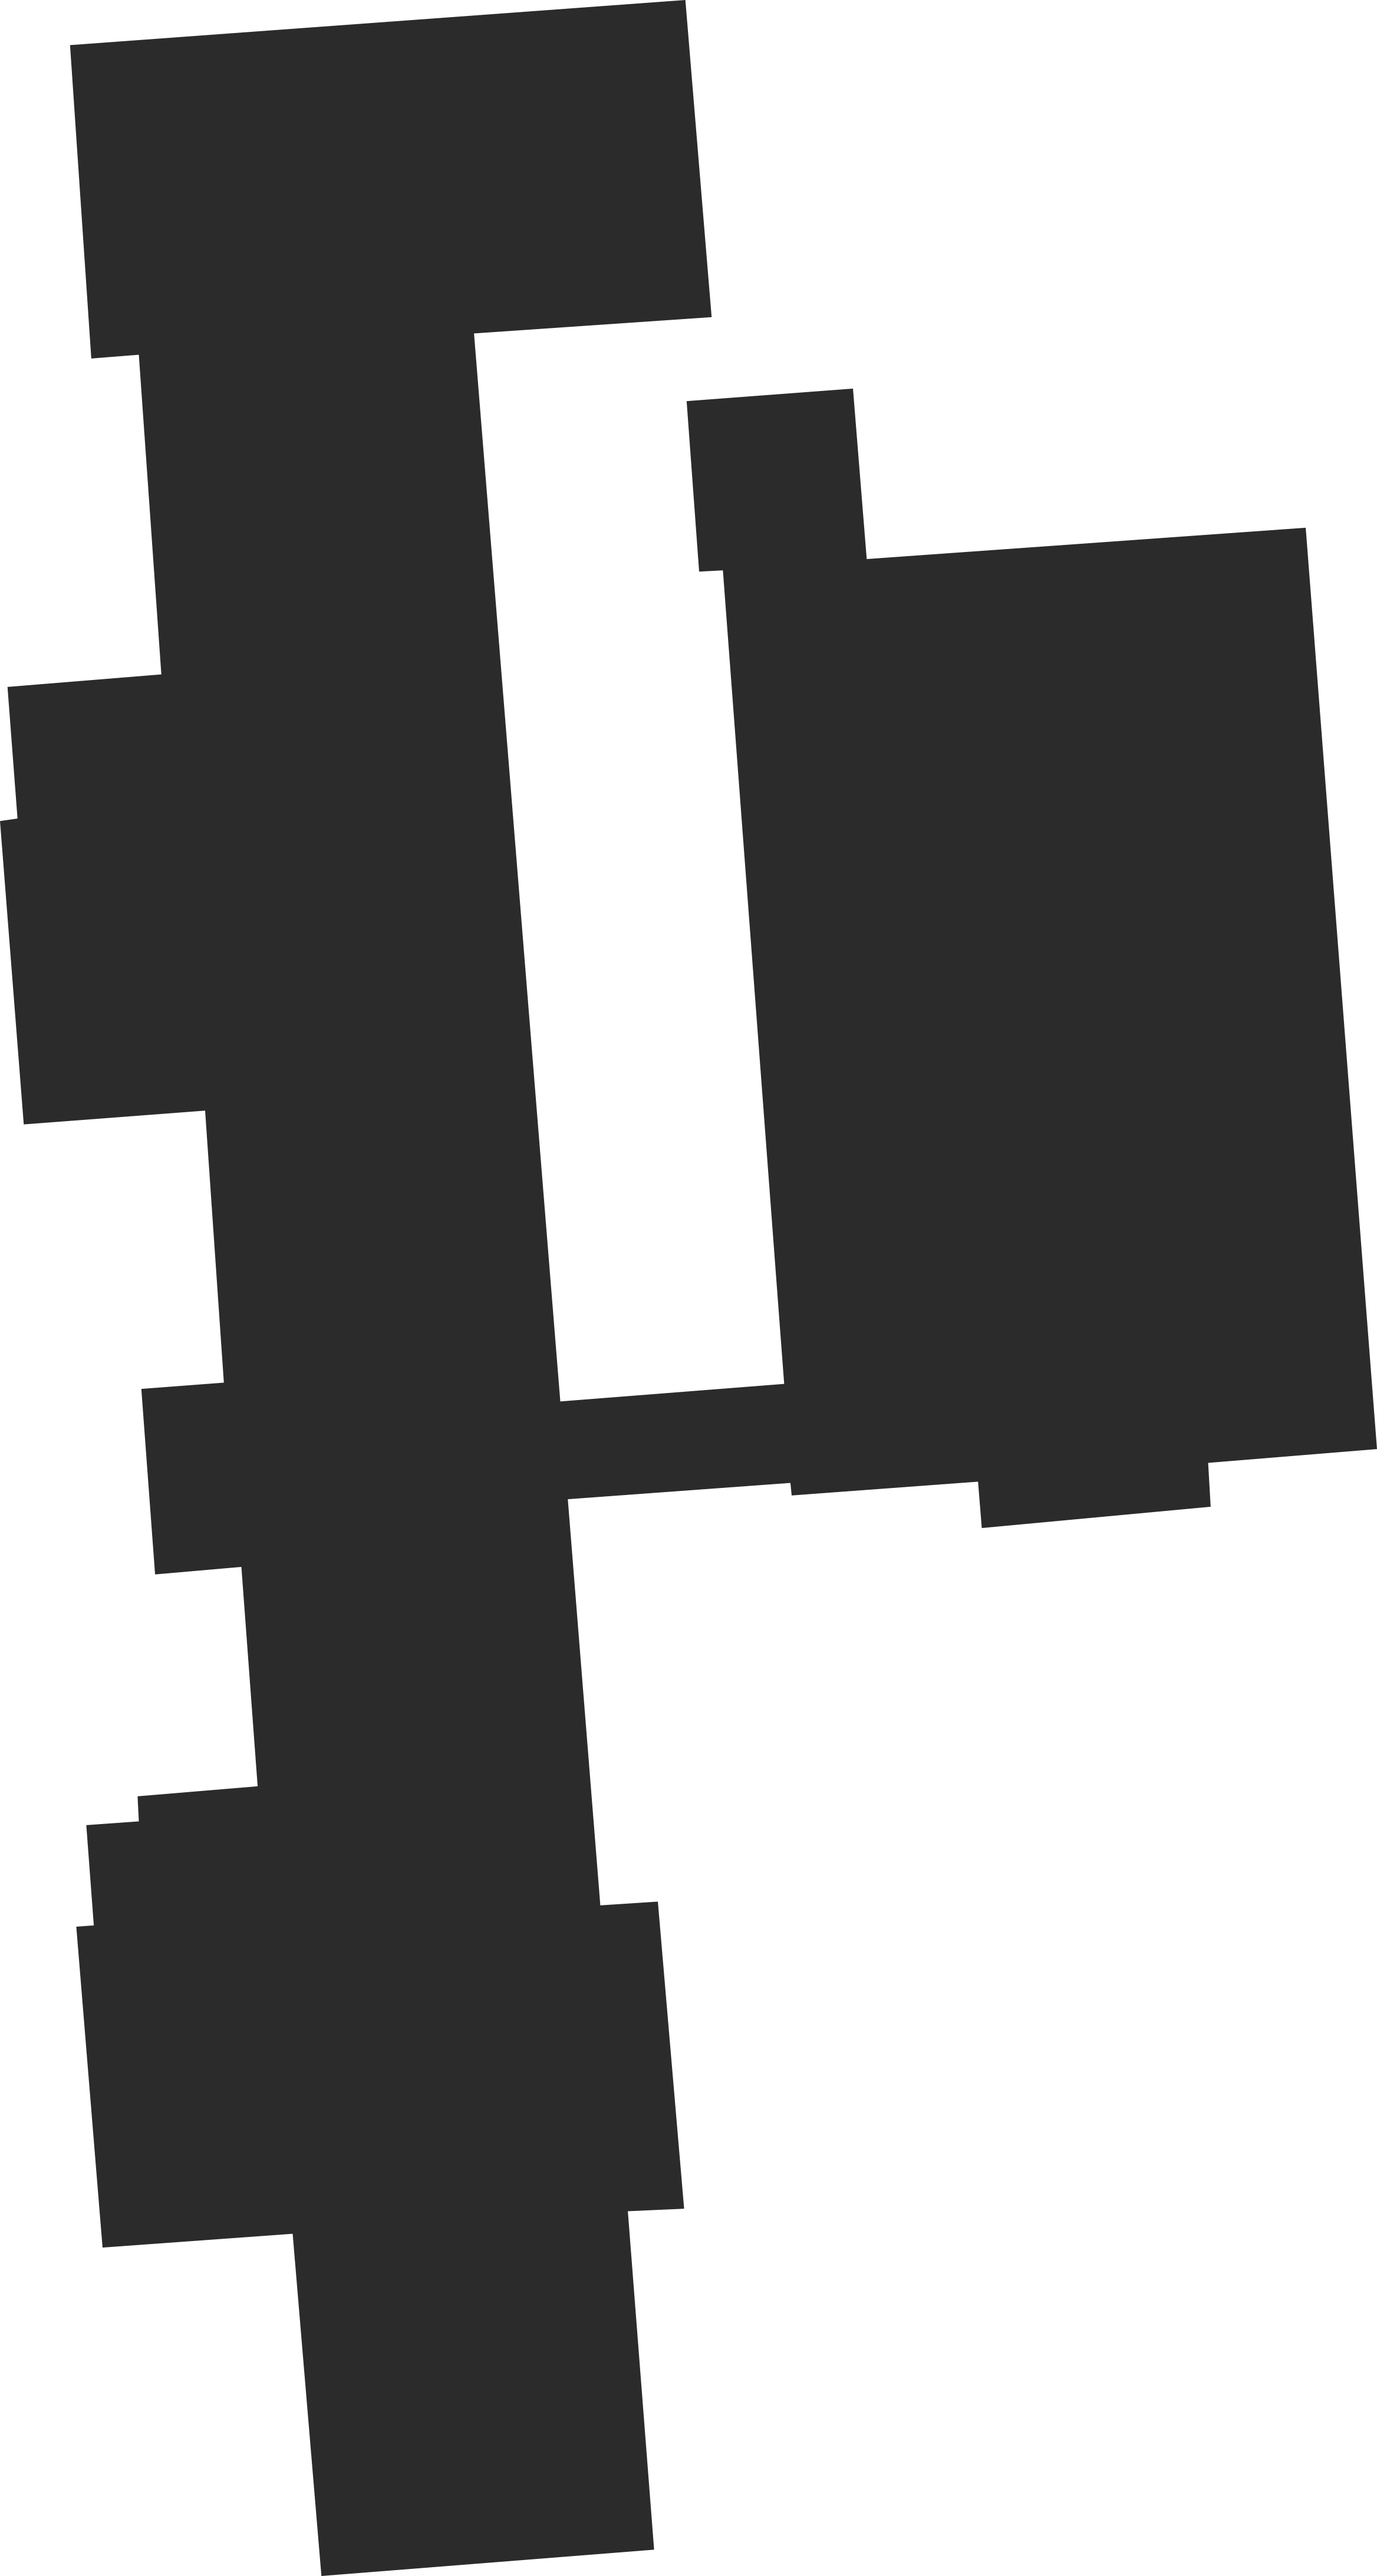
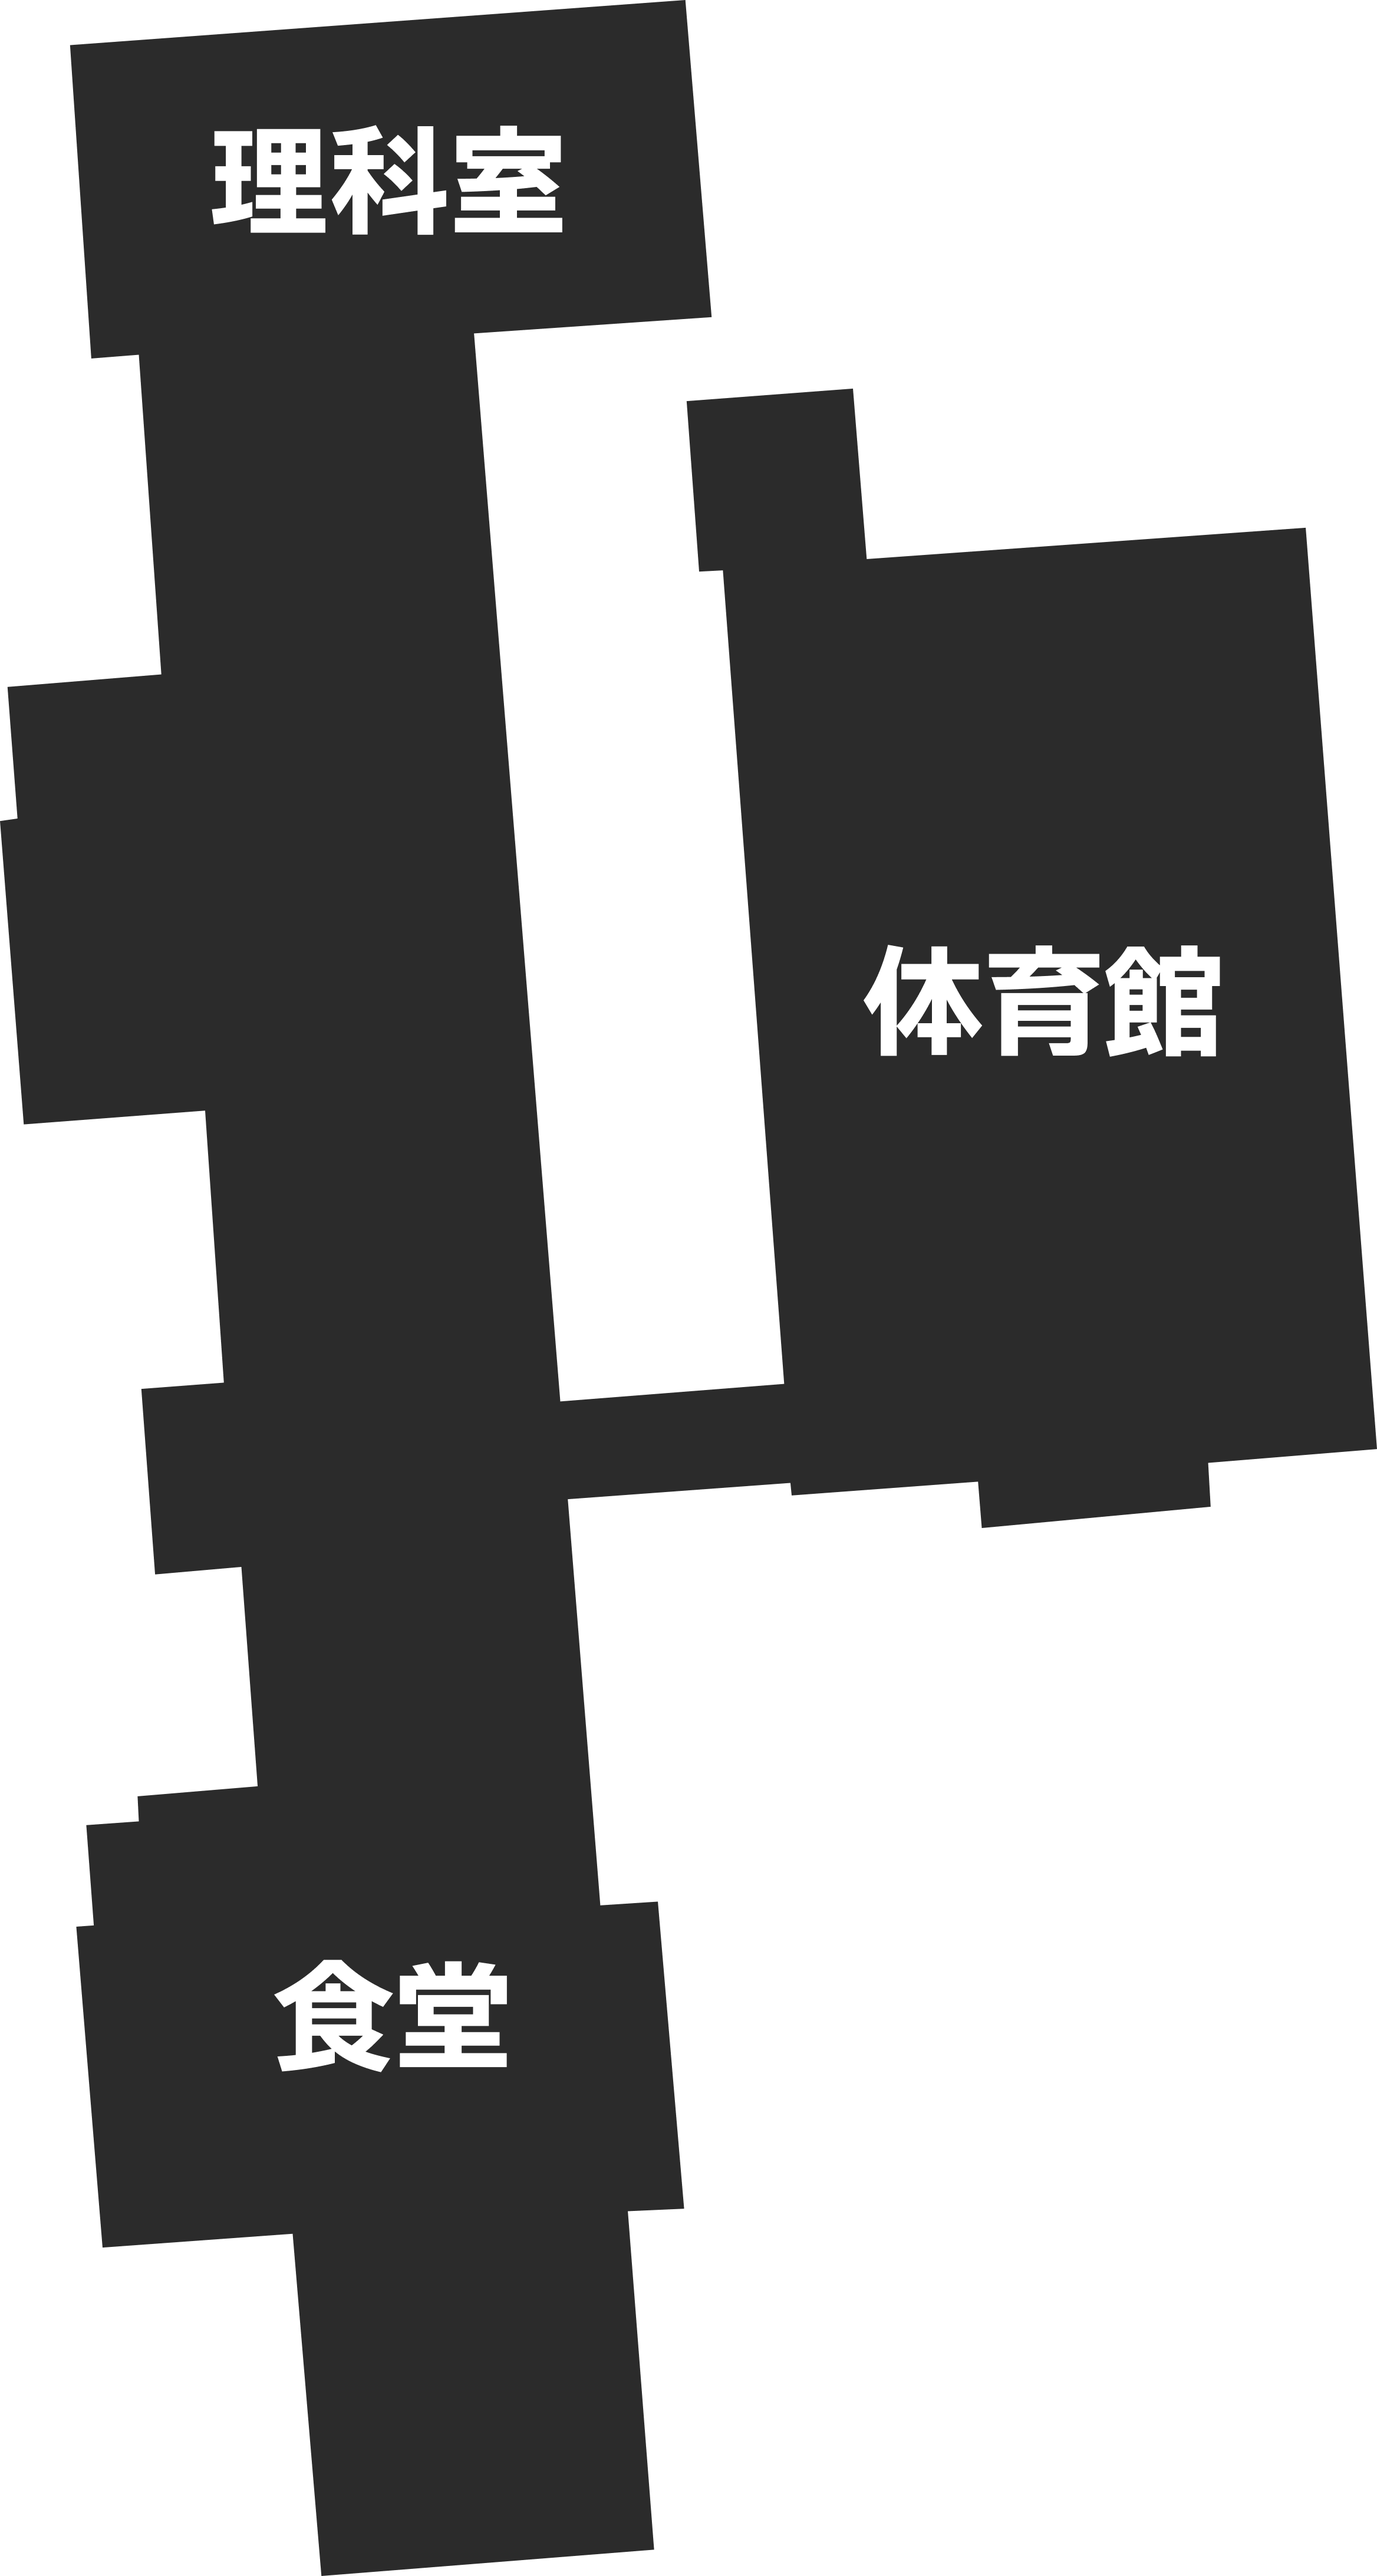
add location name

Changed region(s): [[0.1562, 0.0311, 0.4062, 0.0934], [0.625, 0.3425, 0.9062, 0.4359], [0.1875, 0.7473, 0.375, 0.8095]]

diff --git a/app/Tousousya/page.tsx b/app/Tousousya/page.tsx
@@ -3,14 +3,9 @@ import { useState } from "react";
 import "../globals.css";
 import Image from "next/image";
 
-const coordinates = [
-  { id: 1, x: 100, y: 150 },
-  { id: 2, x: 200, y: 250 },
-  { id: 3, x: 300, y: 350 },
-];
-
 export default function Tousousya() {
   const [isMailboxOpen, setIsMailboxOpen] = useState(false);
+  const [selectedLocation, setSelectedLocation] = useState<number | null>(null);
 
   return (
     <div className="min-h-screen flex flex-col" style={{ backgroundColor: 'var(--foreground)' }}>
@@ -84,23 +79,88 @@ export default function Tousousya() {
           </button>
         </div>
       </header>
-      <main className="flex-grow relative flex justify-center items-start pt-4">
-        <Image src="/img/map_black.png" alt="Map" width={360} height={360} />
-        {coordinates.map((coord) => (
+      <main 
+        className="flex-grow relative flex justify-center items-start pt-4"
+        onClick={(e) => {
+          if (e.target === e.currentTarget) {
+            setSelectedLocation(null);
+          }
+        }}
+      >
+        <Image 
+          src="/img/map_black.png" 
+          alt="Map" 
+          width={360} 
+          height={360} 
+          onClick={(e) => {
+            e.stopPropagation();
+            setSelectedLocation(null);
+          }}
+        />
+        
+        {/* Location 1 */}
+        <div 
+          onClick={(e) => {
+            e.stopPropagation();
+            setSelectedLocation(1);
+          }}
+          className="absolute cursor-pointer"
+          style={{ left: 80, top: 510 }}
+        >
           <Image
-            key={coord.id}
             src="/img/location_orange.png"
-            alt="Location"
+            alt="Location 1"
             width={30}
             height={30}
-            className="absolute"
-            style={{ 
-              left: coord.x, 
-              top: coord.y,
-              transform: 'translate(-50%, -50%)'
-            }}
+            style={{ transform: 'translate(-50%, -50%)' }}
           />
-        ))}
+        </div>
+
+        {/* Location 2 */}
+        <div 
+          onClick={(e) => {
+            e.stopPropagation();
+            setSelectedLocation(2);
+          }}
+          className="absolute cursor-pointer"
+          style={{ left: 190, top: 550 }}
+        >
+          <Image
+            src="/img/location_orange.png"
+            alt="Location 2"
+            width={30}
+            height={30}
+            style={{ transform: 'translate(-50%, -50%)' }}
+          />
+        </div>
+
+        {/* Location 3 */}
+        <div 
+          onClick={(e) => {
+            e.stopPropagation();
+            setSelectedLocation(3);
+          }}
+          className="absolute cursor-pointer"
+          style={{ left: 130, top: 120 }}
+        >
+          <Image
+            src="/img/location_orange.png"
+            alt="Location 3"
+            width={30}
+            height={30}
+            style={{ transform: 'translate(-50%, -50%)' }}
+          />
+        </div>
+
+        {/* 画面下部に詳細ボックスを表示 */}
+        {selectedLocation && (
+          <div 
+            className="fixed bottom-0 left-0 right-0 bg-[#2B2B2B] h-40 text-white p-8"
+            onClick={(e) => e.stopPropagation()}
+          >
+            <h2 className="text-3xl font-bold">ミッション</h2>
+          </div>
+        )}
       </main>
     </div>
   );
